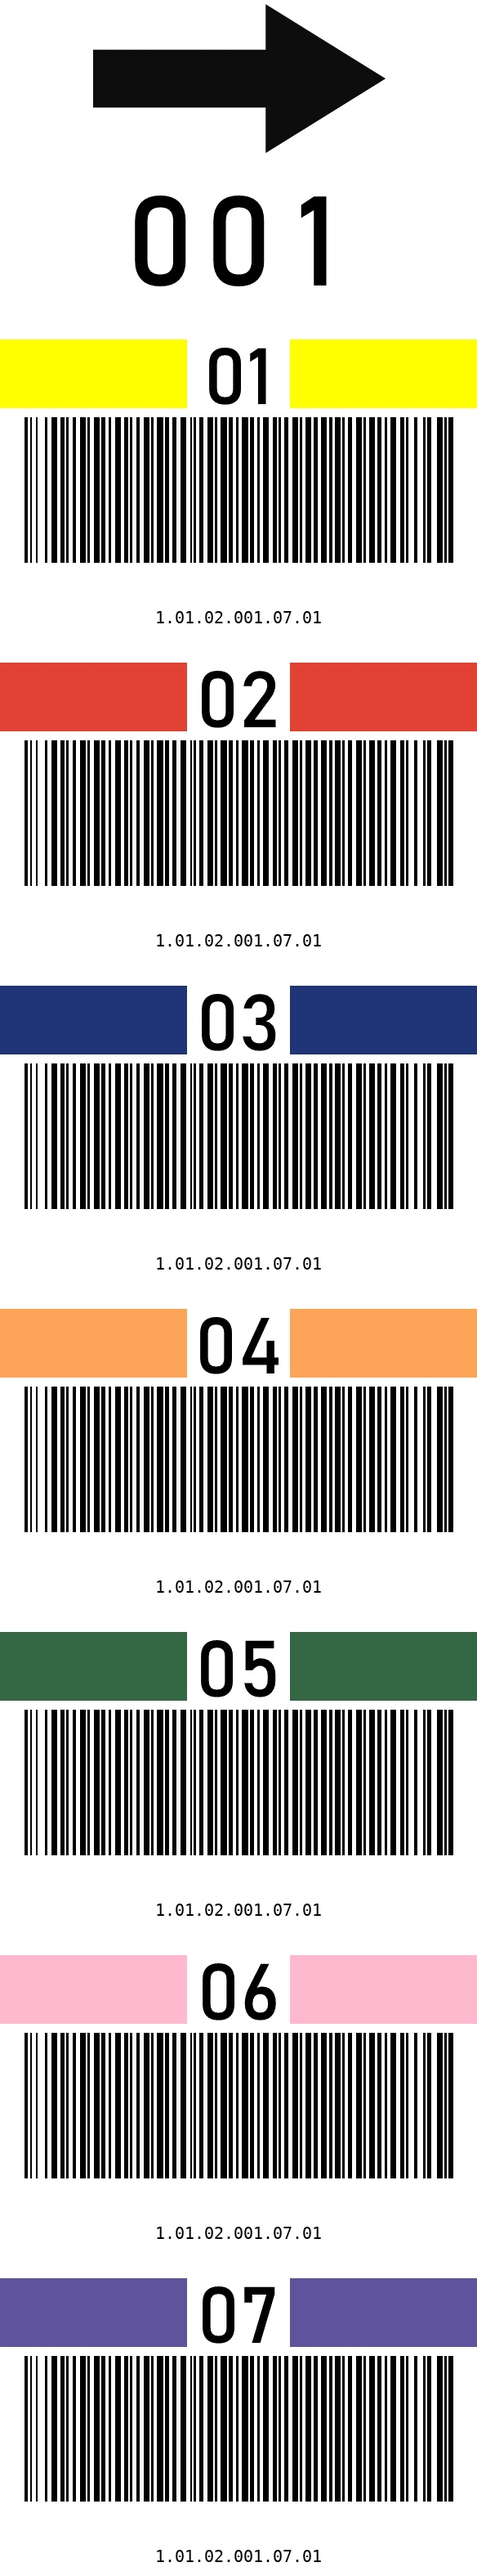
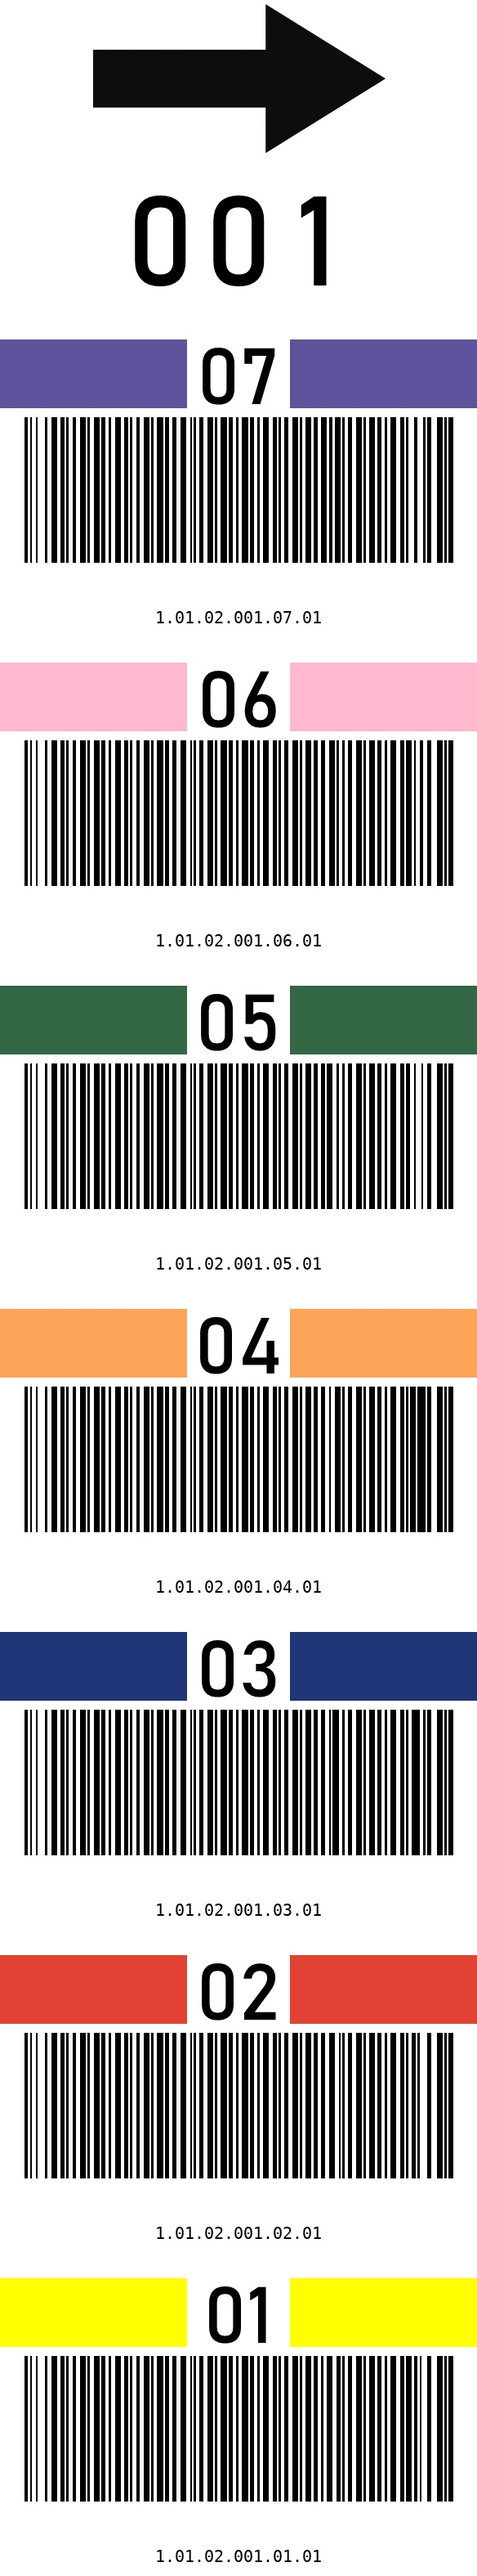
MVP Completed

diff --git a/src/app/app.py b/src/app/app.py
@@ -33,6 +33,21 @@ def getBarcode(barcodeNumber):
     return barcodeFile
 
 
+def getArrow(isle):
+    isle = int(isle)
+    total = isle/4
+    totalNoRemainder = isle//4
+    check = total-totalNoRemainder
+    # print (check)
+    if check == 0.25 or check == 0.5:
+        print(">> ",isle,check)
+        arrow = cv2.imread("C:/personal-git/aresta-barcode/src/app/images/arrows/right-arrow.PNG")
+    elif check == 0.75 or check == 0.0:
+        print("<< ",isle,check)
+        arrow = cv2.imread("C:/personal-git/aresta-barcode/src/app/images/arrows/left-arrow.PNG")
+    return arrow
+
+
 def createIsleLable(isle):
     isle = addZero_threeDigits(isle)
     isleDigit1 = isle[0:1]
@@ -42,17 +57,13 @@ def createIsleLable(isle):
     # Pad
     pad = cv2.imread("C:/personal-git/aresta-barcode/graphics-design/pads-labels/pad.PNG")
     
-    # Arrow
-    rightArrow = cv2.imread("C:/personal-git/aresta-barcode/src/app/images/arrows/right-arrow.PNG")
-    leftArrow = cv2.imread("C:/personal-git/aresta-barcode/src/app/images/arrows/left-arrow.PNG")
-
     firstDigit = getDigit(isleDigit1)
     secondDigit = getDigit(isleDigit2)
     thirdDigit = getDigit(isleDigit3)
 
     # Create New Isle
     isleImg = cv2.hconcat([pad,firstDigit,secondDigit,thirdDigit,pad])
-    headerImg = cv2.vconcat([rightArrow,isleImg])
+    headerImg = cv2.vconcat([getArrow(isle),isleImg])
 
     return headerImg
 
@@ -63,24 +74,28 @@ def generateAllImages(state, city, region, isleMax, shelfMax, product):
     city = addZero_twoDigits(city)
     region = addZero_twoDigits(region)
     product = addZero_twoDigits(product)
+    allBarcodesPath = []
 
     for isle in range(1, isleMax):
         # createIsleLable(isle)
         isleThreeDigits = addZero_threeDigits(isle)
         for shelf in range(1, shelfMax):
             shelf = addZero_twoDigits(shelf) 
-            # Generate Barcode         
-            allBarcodesPath = []
+            # Generate Barcode
             barcodeNumber = ('{}.{}.{}.{}.{}.{}').format(state, city, region, isleThreeDigits, shelf, product)
             getBarcode(barcodeNumber)
-            barcodeImgPath = "C:/personal-git/aresta-barcode/src/app/images/barcode-library/1.01.02.{}.{}.01.png".format(isleThreeDigits,shelf)
+            barcodeImgPath = "C:/personal-git/aresta-barcode/src/app/images/barcode-library/1.01.02.{}.{}.{}.png".format(isleThreeDigits,shelf,product)
             allBarcodesPath.append(barcodeImgPath)
             # FIX ME: Barcode is only passing one array value
-            print(allBarcodesPath)
-    
+
         createFullImage(isle, shelf, allBarcodesPath)
+        allBarcodesPath.clear()
 
 def createFullImage(isle, shelf, allBarcodesPath):
+
+    print("From createFullImage")
+    print ('isle:{} | shelf: {} | allBarcodesPath:{}'.format(isle,shelf,allBarcodesPath))
+    print('\n')
     # Labels
     label1 = cv2.imread("C:/personal-git/aresta-barcode/src/app/images/number-labels/label-1.PNG")
     label2 = cv2.imread("C:/personal-git/aresta-barcode/src/app/images/number-labels/label-2.PNG")
@@ -90,20 +105,20 @@ def createFullImage(isle, shelf, allBarcodesPath):
     label6 = cv2.imread("C:/personal-git/aresta-barcode/src/app/images/number-labels/label-6.PNG")
     label7 = cv2.imread("C:/personal-git/aresta-barcode/src/app/images/number-labels/label-7.PNG")
 
-    # TODO: Make it dynamic - assuming 7
-
     # for x in range(1,isle):
+        
     i=0
     barcodeImg1 = cv2.imread(allBarcodesPath[i])
-    barcodeImg2 = cv2.imread(allBarcodesPath[i])
-    barcodeImg3 = cv2.imread(allBarcodesPath[i])
-    barcodeImg4 = cv2.imread(allBarcodesPath[i])
-    barcodeImg5 = cv2.imread(allBarcodesPath[i])
-    barcodeImg6 = cv2.imread(allBarcodesPath[i])
-    barcodeImg7 = cv2.imread(allBarcodesPath[i])
+    barcodeImg2 = cv2.imread(allBarcodesPath[i+1])
+    barcodeImg3 = cv2.imread(allBarcodesPath[i+2])
+    barcodeImg4 = cv2.imread(allBarcodesPath[i+3])
+    barcodeImg5 = cv2.imread(allBarcodesPath[i+4])
+    barcodeImg6 = cv2.imread(allBarcodesPath[i+5])
+    barcodeImg7 = cv2.imread(allBarcodesPath[i+6])
 
     # Generate File
-    fullImg = cv2.vconcat([createIsleLable(isle), label1, barcodeImg1, label2, barcodeImg2, label3, barcodeImg3, label4, barcodeImg4, label5, barcodeImg5, label6, barcodeImg6, label7, barcodeImg7])
+    print("Generating Image")
+    fullImg = cv2.vconcat([createIsleLable(isle), label7, barcodeImg7, label6, barcodeImg6, label5, barcodeImg5, label4, barcodeImg4, label3, barcodeImg3, label2, barcodeImg2, label1, barcodeImg1])
 
     # Save file
     isleThreeDigits = addZero_threeDigits(isle)
@@ -111,15 +126,17 @@ def createFullImage(isle, shelf, allBarcodesPath):
     cv2.imwrite("C:/personal-git/aresta-barcode/src/app/images/print-folder/{}.jpeg".format(fileName), fullImg)
     # print(x)
 
+# ---------------------------------------------------------------------------------
+# Start Program
 
 # Header - Inputs
 
 state = 1
 city = 1
 region = 2 
-#TODO: control how many
-isle = 4  # Enter one more then needed
+isle = 5  # Enter one more then needed
 shelf = 8  # Enter one more then needed
 product = 1
 
 generateAllImages(state, city, region, isle, shelf, product)
+

diff --git a/src/app/archives/test.py b/src/app/archives/test.py
@@ -1,10 +1,11 @@
-import cv2
-import numpy as np
+def getArrow(isle):
+    total = isle/4
+    totalNoRemainder = isle//4
+    check = total-totalNoRemainder
+    # print (check)
+    if check == 0.25 or check == 0.5:
+        print(">> ",isle,check)
+    elif check == 0.75 or check == 0.0:
+        print("<< ",isle,check)
 
-
-def getDigit(digit):
-    path ="C:/personal-git/aresta-barcode/src/app/images/single-digits/digit{}.PNG".format(digit)
-    digitImg = cv2.imread(path)
-    print (path)
-    return digitImg
-getDigit(1)
+getArrow(16)

diff --git a/README.md b/README.md
@@ -15,3 +15,5 @@ generate barcodes
 # 6.7cm x 40cm
 
 https://dummyimage.com/
+
+# 70 files combines
